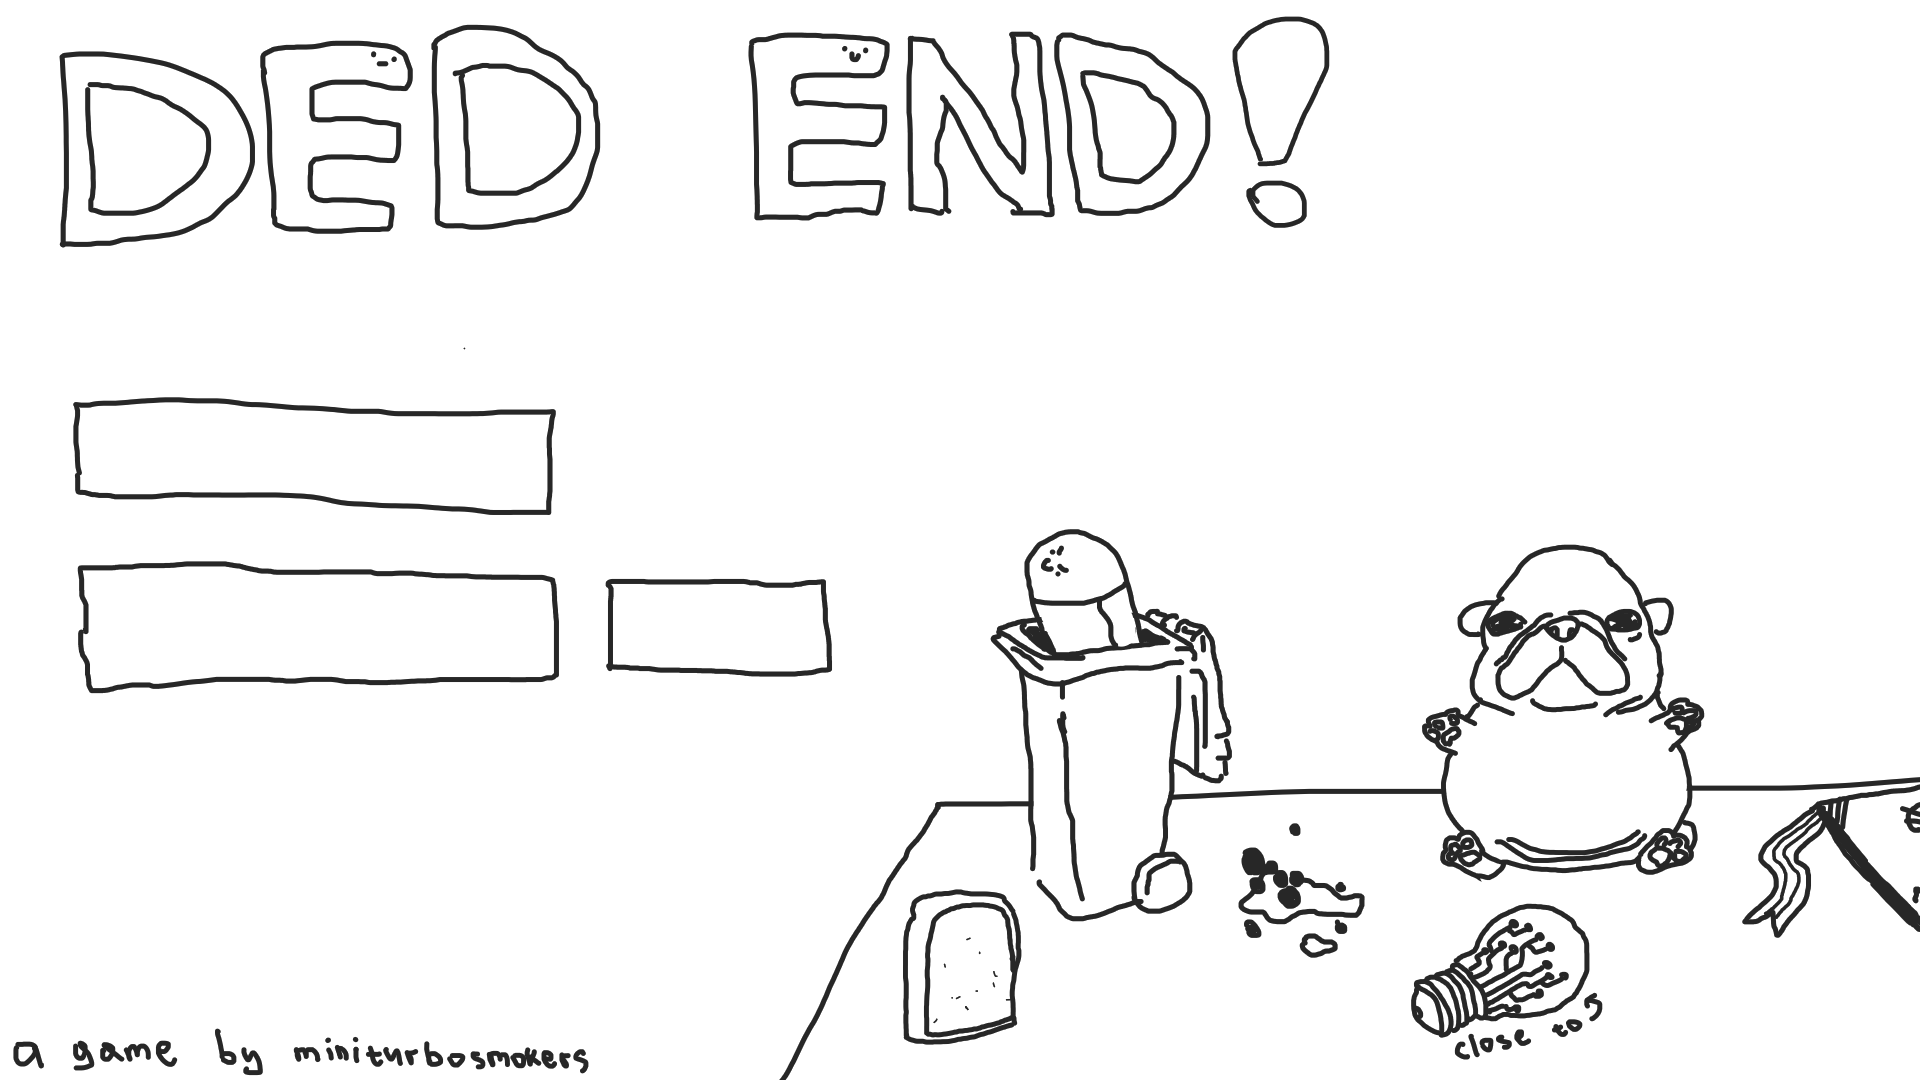
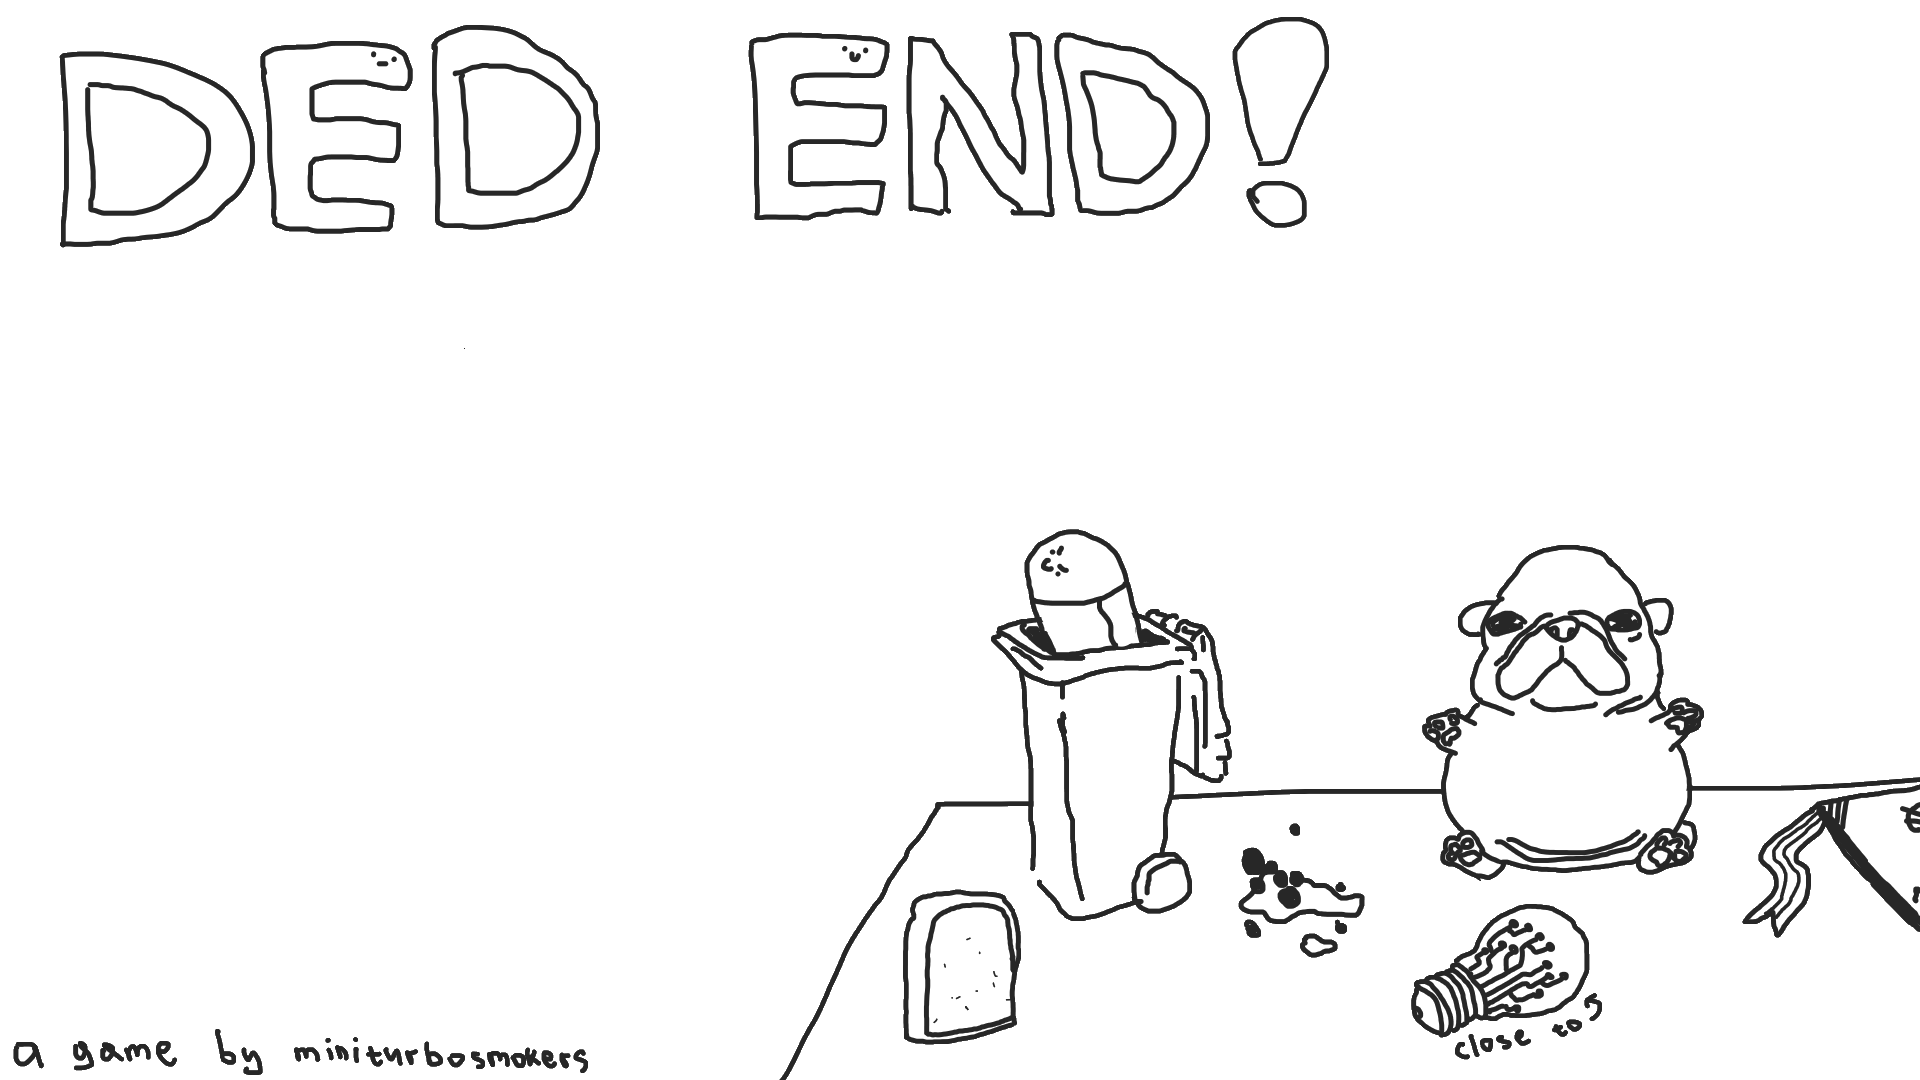
main menu

diff --git a/src/menu/main/mod.rs b/src/menu/main/mod.rs
@@ -176,7 +176,7 @@ impl geng::State for MainMenu {
     }
 
     fn draw(&mut self, framebuffer: &mut ugli::Framebuffer) {
-        ugli::clear(framebuffer, Some(Rgba::BLACK), Some(1.0), None);
+        ugli::clear(framebuffer, Some(Rgba::WHITE), Some(1.0), None);
 
         self.ui_context.state.frame_start();
         self.ui_context.geometry.update(framebuffer.size());
@@ -222,15 +222,22 @@ impl MainMenuUi {
         context.screen = screen;
         context.font_size = screen.height() * 0.05;
         context.layout_size = screen.height() * 0.07;
-        let atlas = &context.context.assets.get().atlas;
+        let assets = context.context.assets.get();
+        let atlas = &assets.atlas;
 
-        let mut create = screen;
-        let mut join = create.split_bottom(0.5);
-        let code = join.split_right(0.5);
+        context
+            .state
+            .get_root_or(|| IconWidget::new(atlas.menu()))
+            .update(screen, context);
+
+        let create = screen.align_aabb(vec2(483.0, 118.0), vec2(0.1, 0.55));
+        let join = screen.align_aabb(vec2(483.0, 118.0), vec2(0.1, 0.4));
+        let code = screen.align_aabb(vec2(210.0, 80.0), vec2(0.4, 0.4));
 
         let button = context.state.get_root_or(|| {
             ButtonWidget::new(atlas.button_background()).with_text("Создать комнату")
         });
+        button.text.options.color = assets.palette.text;
         button.update(create, context);
         if button.state.mouse_left.clicked {
             state.action = Some(Action::CreateRoom);
@@ -239,10 +246,16 @@ impl MainMenuUi {
         let join_button = context.state.get_root_or(|| {
             ButtonWidget::new(atlas.button_background()).with_text("Присоединиться")
         });
+        join_button.text.options.color = assets.palette.text;
         join_button.update(join, context);
 
+        context
+            .state
+            .get_root_or(|| IconWidget::new(atlas.code_background()))
+            .update(code, context);
         let code_input = context.state.get_root_or(|| InputWidget::new(""));
         code_input.update(code, context);
+        code_input.name.options.color = assets.palette.text;
 
         if join_button.state.mouse_left.clicked {
             state.action = Some(Action::Join(code_input.raw.clone()));

diff --git a/src/assets/mod.rs b/src/assets/mod.rs
@@ -65,7 +65,9 @@ pub struct ShaderAssets {
 friendly_derive::texture_atlas!(pub SpritesAtlas {
     white,
 
+    menu,
     button_background,
+    code_background,
     lobby,
     think0,
     think1,
